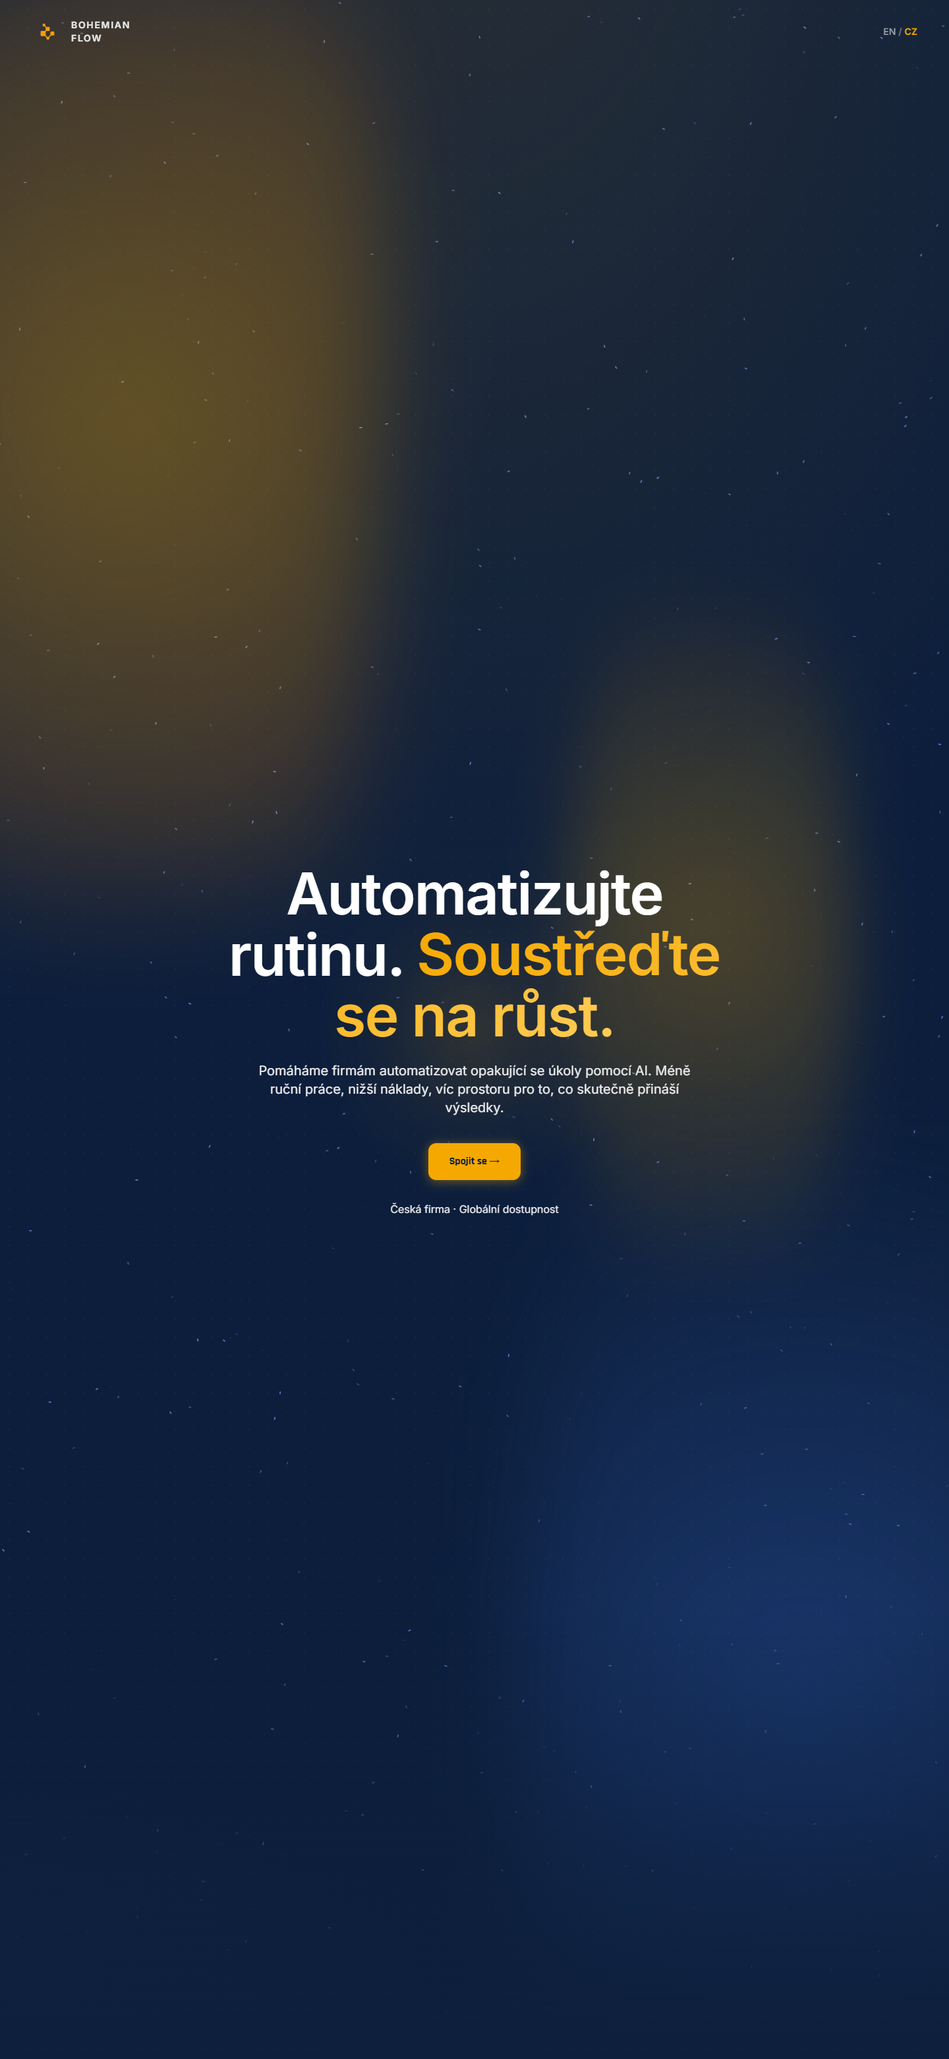
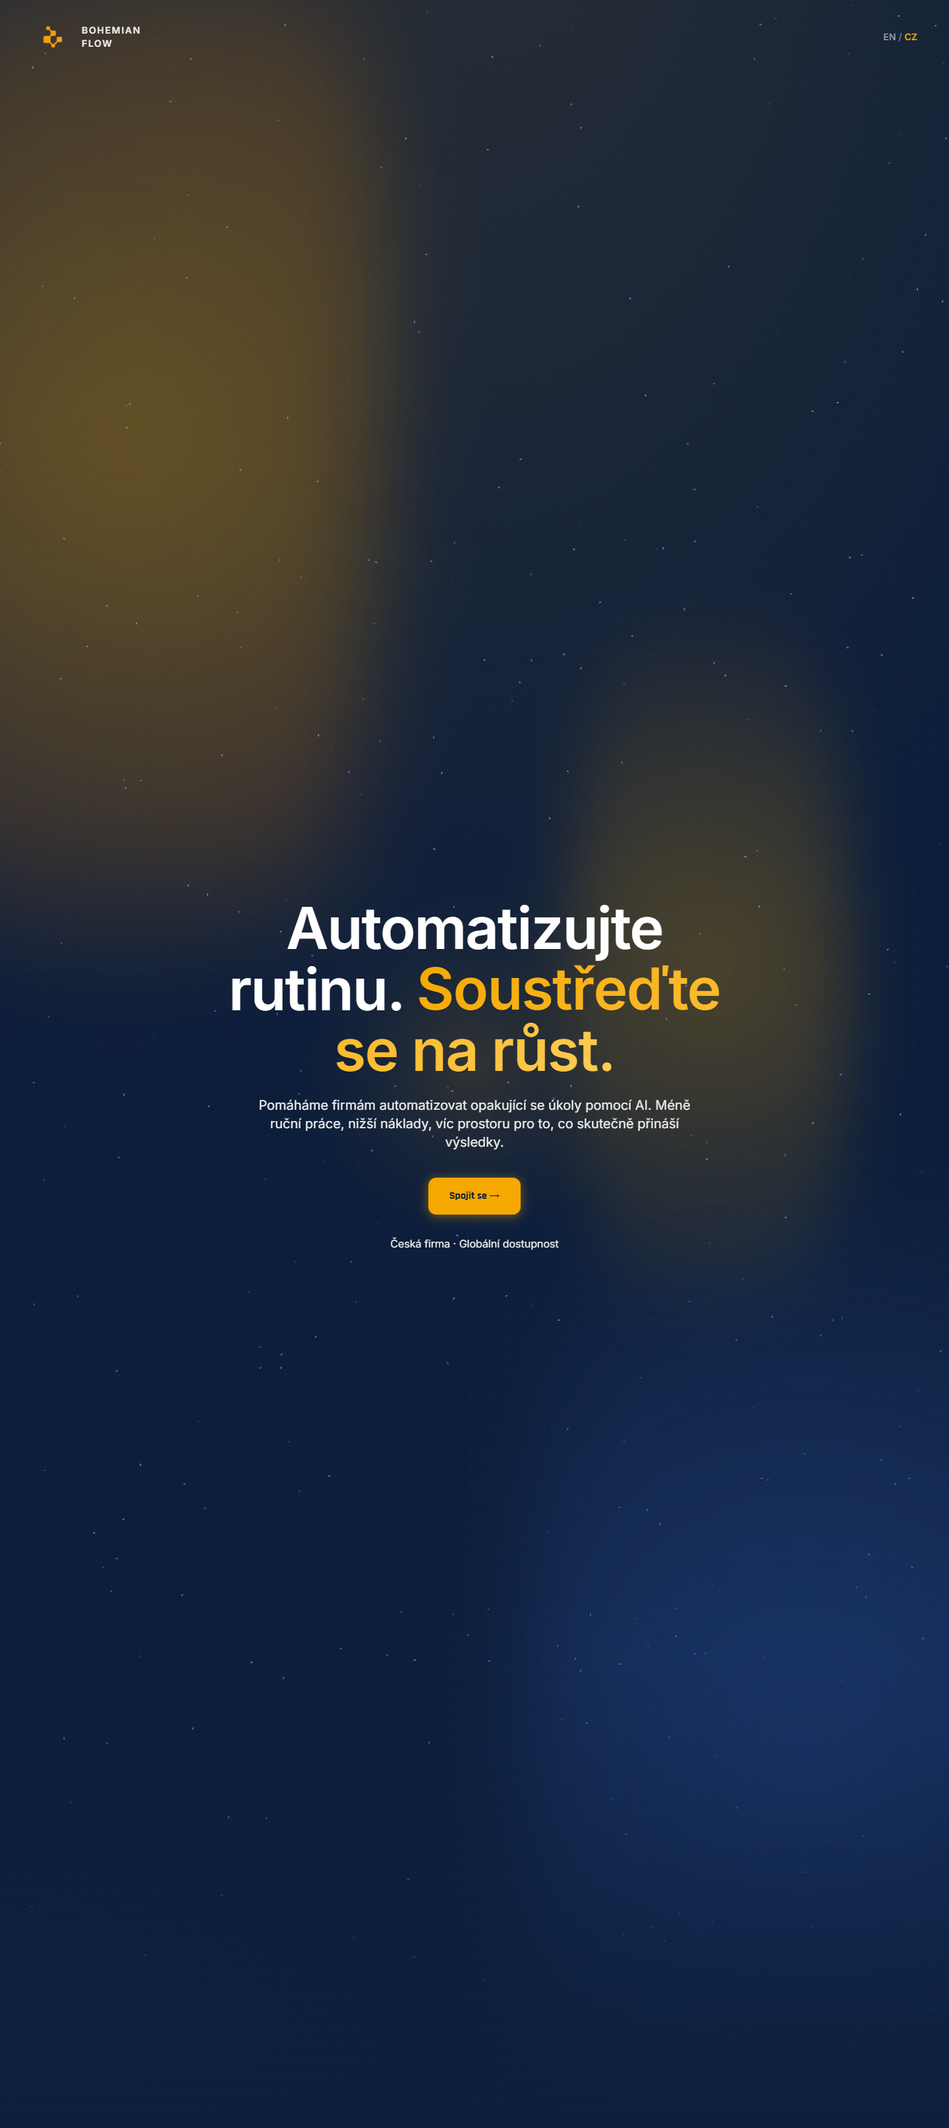
Update website content, translations, and screenshots

Changed region(s): [[0.3125, 0.4035, 0.75, 0.5898], [0.2812, 0.4966, 0.3438, 0.5277], [0.0625, 0.0, 0.125, 0.031]]

diff --git a/index.html b/index.html
@@ -282,6 +282,7 @@
       position: relative;
       border-left: 3px solid transparent;
       transition: all 0.3s cubic-bezier(0.22,1,0.36,1);
+      min-height: 300px;
     }
 
     .topic-card:hover {
@@ -599,7 +600,7 @@
   <!-- NAVIGATION -->
   <nav id="navbar" class="fixed top-0 left-0 right-0 z-50 w-full px-6 md:px-12 py-4 md:py-6 flex items-center justify-between transition-all duration-300">
     <a href="#" class="flex items-center gap-3 group">
-      <img src="./brand_assests/logo.png" alt="Bohemian Flow" class="h-10 md:h-12" />
+      <img src="./brand_assests/logo.png" alt="Bohemian Flow" class="h-14 md:h-16" />
       <span class="hidden md:block text-xs md:text-sm font-display font-bold uppercase tracking-[0.12em] text-ghost group-hover:text-orange transition-colors">Bohemian<br />Flow</span>
     </a>
 
@@ -743,60 +744,68 @@
 
       <!-- Topic Grid -->
       <div class="grid grid-cols-1 sm:grid-cols-2 lg:grid-cols-4 gap-6">
-        <!-- Topic 1 -->
+        <!-- Topic 1 — Email Agent -->
         <div class="topic-card bg-navy-light rounded-xl p-6 reveal reveal-delay-1">
-          <span class="inline-block bg-orange/12 text-orange text-xs font-semibold uppercase tracking-wider px-3 py-1 rounded-md mb-4" data-i18n="topics.t1.tag">Workflow</span>
-          <h3 class="font-display font-bold text-lg text-white mb-2" data-i18n="topics.t1.title">n8n & Make Workflows</h3>
-          <p class="text-ghost text-sm" data-i18n="topics.t1.desc">Deep-dive automation builds and advanced node configurations.</p>
+          <svg class="w-6 h-6 text-orange mb-3" fill="none" stroke="currentColor" stroke-width="1.75" viewBox="0 0 24 24" aria-hidden="true"><path stroke-linecap="round" stroke-linejoin="round" d="M21.75 6.75v10.5a2.25 2.25 0 0 1-2.25 2.25h-15a2.25 2.25 0 0 1-2.25-2.25V6.75m19.5 0A2.25 2.25 0 0 0 19.5 4.5h-15a2.25 2.25 0 0 0-2.25 2.25m19.5 0v.243a2.25 2.25 0 0 1-1.07 1.916l-7.5 4.615a2.25 2.25 0 0 1-2.36 0L3.32 8.91a2.25 2.25 0 0 1-1.07-1.916V6.75"/></svg>
+          <span class="inline-block bg-orange/12 text-orange text-xs font-semibold uppercase tracking-wider px-3 py-1 rounded-md mb-4" data-i18n="topics.t1.tag">Email</span>
+          <h3 class="font-display font-bold text-lg text-white mb-2" data-i18n="topics.t1.title">Email Agent</h3>
+          <p class="text-ghost text-sm" data-i18n="topics.t1.desc">Reads your inbox, sorts emails into folders, drafts replies in your tone, and flags only what needs your attention.</p>
         </div>
 
-        <!-- Topic 2 -->
+        <!-- Topic 2 — Smarter Chatbot (RAG) -->
         <div class="topic-card bg-navy-light rounded-xl p-6 reveal reveal-delay-2">
-          <span class="inline-block bg-orange/12 text-orange text-xs font-semibold uppercase tracking-wider px-3 py-1 rounded-md mb-4" data-i18n="topics.t2.tag">Agents</span>
-          <h3 class="font-display font-bold text-lg text-white mb-2" data-i18n="topics.t2.title">AI Agent Architecture</h3>
-          <p class="text-ghost text-sm" data-i18n="topics.t2.desc">Multi-step agent design patterns and orchestration.</p>
+          <svg class="w-6 h-6 text-orange mb-3" fill="none" stroke="currentColor" stroke-width="1.75" viewBox="0 0 24 24" aria-hidden="true"><path stroke-linecap="round" stroke-linejoin="round" d="M12 6.042A8.967 8.967 0 0 0 6 3.75c-1.052 0-2.062.18-3 .512v14.25A8.987 8.987 0 0 1 6 18c2.305 0 4.408.867 6 2.292m0-14.25a8.966 8.966 0 0 1 6-2.292c1.052 0 2.062.18 3 .512v14.25A8.987 8.987 0 0 0 18 18a8.967 8.967 0 0 0-6 2.292m0-14.25v14.25"/></svg>
+          <span class="inline-block bg-orange/12 text-orange text-xs font-semibold uppercase tracking-wider px-3 py-1 rounded-md mb-4" data-i18n="topics.t2.tag">RAG</span>
+          <h3 class="font-display font-bold text-lg text-white mb-2" data-i18n="topics.t2.title">Smarter Chatbot</h3>
+          <p class="text-ghost text-sm" data-i18n="topics.t2.desc">Unlike a regular chatbot, this one reads your actual documents, price lists, or knowledge base — and answers from that. Always up to date.</p>
         </div>
 
-        <!-- Topic 3 -->
+        <!-- Topic 3 — Lead Agent -->
         <div class="topic-card bg-navy-light rounded-xl p-6 reveal reveal-delay-3">
+          <svg class="w-6 h-6 text-orange mb-3" fill="none" stroke="currentColor" stroke-width="1.75" viewBox="0 0 24 24" aria-hidden="true"><path stroke-linecap="round" stroke-linejoin="round" d="M18 7.5v3m0 0v3m0-3h3m-3 0h-3m-2.25-4.125a3.375 3.375 0 1 1-6.75 0 3.375 3.375 0 0 1 6.75 0ZM3 19.235v-.11a6.375 6.375 0 0 1 12.75 0v.109A12.318 12.318 0 0 1 9.374 21c-2.331 0-4.512-.645-6.374-1.766Z"/></svg>
           <span class="inline-block bg-orange/12 text-orange text-xs font-semibold uppercase tracking-wider px-3 py-1 rounded-md mb-4" data-i18n="topics.t3.tag">LeadGen</span>
-          <h3 class="font-display font-bold text-lg text-white mb-2" data-i18n="topics.t3.title">Lead Generation Systems</h3>
-          <p class="text-ghost text-sm" data-i18n="topics.t3.desc">Outbound automation, enrichment, and conversion flows.</p>
+          <h3 class="font-display font-bold text-lg text-white mb-2" data-i18n="topics.t3.title">Lead Agent</h3>
+          <p class="text-ghost text-sm" data-i18n="topics.t3.desc">Finds companies that match your ideal customer, enriches the data, and sends a personalized first message. Warm leads without lifting a finger.</p>
         </div>
 
-        <!-- Topic 4 -->
+        <!-- Topic 4 — Content Agent -->
         <div class="topic-card bg-navy-light rounded-xl p-6 reveal reveal-delay-4">
-          <span class="inline-block bg-orange/12 text-orange text-xs font-semibold uppercase tracking-wider px-3 py-1 rounded-md mb-4" data-i18n="topics.t4.tag">CRM</span>
-          <h3 class="font-display font-bold text-lg text-white mb-2" data-i18n="topics.t4.title">CRM Automation</h3>
-          <p class="text-ghost text-sm" data-i18n="topics.t4.desc">Pipedrive, HubSpot, Close.io, and custom integrations.</p>
+          <svg class="w-6 h-6 text-orange mb-3" fill="none" stroke="currentColor" stroke-width="1.75" viewBox="0 0 24 24" aria-hidden="true"><path stroke-linecap="round" stroke-linejoin="round" d="m16.862 4.487 1.687-1.688a1.875 1.875 0 1 1 2.652 2.652L10.582 16.07a4.5 4.5 0 0 1-1.897 1.13L6 18l.8-2.685a4.5 4.5 0 0 1 1.13-1.897l8.932-8.931Zm0 0L19.5 7.125M18 14v4.75A2.25 2.25 0 0 1 15.75 21H5.25A2.25 2.25 0 0 1 3 18.75V8.25A2.25 2.25 0 0 1 5.25 6H10"/></svg>
+          <span class="inline-block bg-orange/12 text-orange text-xs font-semibold uppercase tracking-wider px-3 py-1 rounded-md mb-4" data-i18n="topics.t4.tag">Content</span>
+          <h3 class="font-display font-bold text-lg text-white mb-2" data-i18n="topics.t4.title">Content Agent</h3>
+          <p class="text-ghost text-sm" data-i18n="topics.t4.desc">Picks a topic, researches it, writes the post, and publishes it to your channels on a schedule. Your social presence keeps running while you focus on the business.</p>
         </div>
 
-        <!-- Topic 5 -->
-        <div class="topic-card bg-navy-light rounded-xl p-6 reveal reveal-delay-5">
-          <span class="inline-block bg-orange/12 text-orange text-xs font-semibold uppercase tracking-wider px-3 py-1 rounded-md mb-4" data-i18n="topics.t5.tag">Prompts</span>
-          <h3 class="font-display font-bold text-lg text-white mb-2" data-i18n="topics.t5.title">Prompt Engineering</h3>
-          <p class="text-ghost text-sm" data-i18n="topics.t5.desc">Production-grade prompt systems and advanced techniques.</p>
-        </div>
-
-        <!-- Topic 6 -->
+        <!-- Topic 5 — Web Scraper -->
         <div class="topic-card bg-navy-light rounded-xl p-6 reveal reveal-delay-1">
-          <span class="inline-block bg-orange/12 text-orange text-xs font-semibold uppercase tracking-wider px-3 py-1 rounded-md mb-4" data-i18n="topics.t6.tag">Data</span>
-          <h3 class="font-display font-bold text-lg text-white mb-2" data-i18n="topics.t6.title">Scraping & Data Pipelines</h3>
-          <p class="text-ghost text-sm" data-i18n="topics.t6.desc">Web data collection and large-scale processing.</p>
+          <svg class="w-6 h-6 text-orange mb-3" fill="none" stroke="currentColor" stroke-width="1.75" viewBox="0 0 24 24" aria-hidden="true"><path stroke-linecap="round" stroke-linejoin="round" d="M20.25 6.375c0 2.278-3.694 4.125-8.25 4.125S3.75 8.653 3.75 6.375m16.5 0c0-2.278-3.694-4.125-8.25-4.125S3.75 4.097 3.75 6.375m16.5 0v11.25c0 2.278-3.694 4.125-8.25 4.125s-8.25-1.847-8.25-4.125V6.375m16.5 5.625c0 2.278-3.694 4.125-8.25 4.125s-8.25-1.847-8.25-4.125"/></svg>
+          <span class="inline-block bg-orange/12 text-orange text-xs font-semibold uppercase tracking-wider px-3 py-1 rounded-md mb-4" data-i18n="topics.t5.tag">Data</span>
+          <h3 class="font-display font-bold text-lg text-white mb-2" data-i18n="topics.t5.title">Web Scraper</h3>
+          <p class="text-ghost text-sm" data-i18n="topics.t5.desc">Automatically collects prices, listings, or leads from websites every morning and drops clean rows into your spreadsheet or database.</p>
         </div>
 
-        <!-- Topic 7 -->
+        <!-- Topic 6 — Voice AI Agent -->
         <div class="topic-card bg-navy-light rounded-xl p-6 reveal reveal-delay-2">
-          <span class="inline-block bg-orange/12 text-orange text-xs font-semibold uppercase tracking-wider px-3 py-1 rounded-md mb-4" data-i18n="topics.t7.tag">Chat</span>
-          <h3 class="font-display font-bold text-lg text-white mb-2" data-i18n="topics.t7.title">Voice & Chat Interfaces</h3>
-          <p class="text-ghost text-sm" data-i18n="topics.t7.desc">WhatsApp, Telegram, Slack bots, and conversational AI.</p>
+          <svg class="w-6 h-6 text-orange mb-3" fill="none" stroke="currentColor" stroke-width="1.75" viewBox="0 0 24 24" aria-hidden="true"><path stroke-linecap="round" stroke-linejoin="round" d="M2.25 6.75c0 8.284 6.716 15 15 15h2.25a2.25 2.25 0 0 0 2.25-2.25v-1.372c0-.516-.351-.966-.852-1.091l-4.423-1.106c-.44-.11-.902.055-1.173.417l-.97 1.293c-.282.376-.769.542-1.21.38a12.035 12.035 0 0 1-7.143-7.143c-.162-.441.004-.928.38-1.21l1.293-.97c.363-.271.527-.734.417-1.173L6.963 3.102a1.125 1.125 0 0 0-1.091-.852H4.5A2.25 2.25 0 0 0 2.25 4.5v2.25Z"/></svg>
+          <span class="inline-block bg-orange/12 text-orange text-xs font-semibold uppercase tracking-wider px-3 py-1 rounded-md mb-4" data-i18n="topics.t6.tag">Voice AI</span>
+          <h3 class="font-display font-bold text-lg text-white mb-2" data-i18n="topics.t6.title">Voice AI Agent</h3>
+          <p class="text-ghost text-sm" data-i18n="topics.t6.desc">An AI agent that calls your leads, handles inbound inquiries, and books meetings — in natural voice conversation. Available in any language, 24/7, at scale.</p>
         </div>
 
-        <!-- Topic 8 -->
+        <!-- Topic 7 — CRM Automation -->
         <div class="topic-card bg-navy-light rounded-xl p-6 reveal reveal-delay-3">
-          <span class="inline-block bg-orange/12 text-orange text-xs font-semibold uppercase tracking-wider px-3 py-1 rounded-md mb-4" data-i18n="topics.t8.tag">Process</span>
-          <h3 class="font-display font-bold text-lg text-white mb-2" data-i18n="topics.t8.title">Business Process Design</h3>
-          <p class="text-ghost text-sm" data-i18n="topics.t8.desc">SOP to automation conversion and optimization.</p>
+          <svg class="w-6 h-6 text-orange mb-3" fill="none" stroke="currentColor" stroke-width="1.75" viewBox="0 0 24 24" aria-hidden="true"><path stroke-linecap="round" stroke-linejoin="round" d="M15 9h3.75M15 12h3.75M15 15h3.75M4.5 19.5h15a2.25 2.25 0 0 0 2.25-2.25V6.75A2.25 2.25 0 0 0 19.5 4.5h-15a2.25 2.25 0 0 0-2.25 2.25v10.5A2.25 2.25 0 0 0 4.5 19.5Zm6-10.125a1.875 1.875 0 1 1-3.75 0 1.875 1.875 0 0 1 3.75 0Zm1.294 6.336a6.721 6.721 0 0 1-3.17.789 6.721 6.721 0 0 1-3.168-.789 3.376 3.376 0 0 1 6.338 0Z"/></svg>
+          <span class="inline-block bg-orange/12 text-orange text-xs font-semibold uppercase tracking-wider px-3 py-1 rounded-md mb-4" data-i18n="topics.t7.tag">CRM</span>
+          <h3 class="font-display font-bold text-lg text-white mb-2" data-i18n="topics.t7.title">CRM Automation</h3>
+          <p class="text-ghost text-sm" data-i18n="topics.t7.desc">Contacts, deals, and tasks update themselves. When a lead fills a form, the CRM record is created, tagged, and assigned — before anyone even checks their inbox.</p>
+        </div>
+
+        <!-- Topic 8 — Automated Reporting -->
+        <div class="topic-card bg-navy-light rounded-xl p-6 reveal reveal-delay-4">
+          <svg class="w-6 h-6 text-orange mb-3" fill="none" stroke="currentColor" stroke-width="1.75" viewBox="0 0 24 24" aria-hidden="true"><path stroke-linecap="round" stroke-linejoin="round" d="M3 13.125C3 12.504 3.504 12 4.125 12h2.25c.621 0 1.125.504 1.125 1.125v6.75C7.5 20.496 6.996 21 6.375 21h-2.25A1.125 1.125 0 0 1 3 19.875v-6.75ZM9.75 8.625c0-.621.504-1.125 1.125-1.125h2.25c.621 0 1.125.504 1.125 1.125v11.25c0 .621-.504 1.125-1.125 1.125h-2.25a1.125 1.125 0 0 1-1.125-1.125V8.625ZM16.5 4.125c0-.621.504-1.125 1.125-1.125h2.25C20.496 3 21 3.504 21 4.125v15.75c0 .621-.504 1.125-1.125 1.125h-2.25a1.125 1.125 0 0 1-1.125-1.125V4.125Z"/></svg>
+          <span class="inline-block bg-orange/12 text-orange text-xs font-semibold uppercase tracking-wider px-3 py-1 rounded-md mb-4" data-i18n="topics.t8.tag">Reporting</span>
+          <h3 class="font-display font-bold text-lg text-white mb-2" data-i18n="topics.t8.title">Automated Reporting</h3>
+          <p class="text-ghost text-sm" data-i18n="topics.t8.desc">Every week or month, a report on your key metrics lands in your inbox automatically. No manual exports, no spreadsheet juggling.</p>
         </div>
       </div>
     </div>

diff --git a/translations/cs.js b/translations/cs.js
@@ -31,14 +31,14 @@ window.translations.cs = {
   topics: {
     label:   'Co stavíme',
     heading: 'Naše automatizační specializace',
-    t1: { tag: 'Workflow', title: 'n8n Workflows',                  desc: 'Tvoříme automatizace v n8n, nástroji pro propojení aplikací a procesů bez ruční práce. Postaráme se o celé nastavení od prvního kroku až po spuštění v ostrém provozu.' },
-    t2: { tag: 'Procesy',  title: 'Design firemních procesů',     desc: 'Zmapujeme, jak váš tým pracuje, a nahradíme opakující se ruční kroky automatizací. Výsledkem je rychlejší provoz, méně chyb a víc času na důležitou práci.' },
-    t3: { tag: 'LeadGen',  title: 'Systémy pro generování leadů', desc: 'Automatizujeme celý proces hledání a oslovování potenciálních zákazníků. Od prvního kontaktu po domluvení schůzky vše proběhne bez ruční práce.' },
-    t4: { tag: 'Email',    title: 'Automatizace e-mailů',         desc: 'AI za vás třídí, píše a odpovídá na e-maily podle vašich pravidel. Váš inbox vám slouží místo toho, aby vás ovládal.' },
-    t5: { tag: 'Obsah',    title: 'Generování AI obsahu',         desc: 'Systém, který sám vyhledá podklady, napíše a zveřejní obsah na vašich kanálech. Váš obsah vychází pravidelně, aniž byste na něm museli trávit čas.' },
-    t6: { tag: 'Data',     title: 'Scraping & datové pipeline',   desc: 'Automaticky sbíráme data z webu a ukládáme je přehledně na jedno místo. Vždy aktuální, čistá data připravená k dalšímu využití.' },
-    t7: { tag: 'Chat',     title: 'Hlasová & chatová rozhraní',   desc: 'Stavíme chatboty pro WhatsApp, Telegram, Slack i vlastní AI asistenty. Vaše firma zůstává dostupná na každém kanálu, nepřetržitě.' },
-    t8: { tag: 'Agenti',   title: 'Architektura AI agentů',       desc: 'Stavíme AI agenty, kteří myslí a jednají samostatně, bez toho, aby je kdokoli řídil. Zvládnou složité úkoly sami nebo ve spolupráci s dalšími agenty.' }
+    t1: { tag: 'Email',   title: 'E-mailový agent',     desc: 'Přečte váš inbox, roztřídí e-maily do složek, napíše odpověď vaším stylem a upozorní vás jen na to, co vyžaduje vás. Inbox funguje sám.' },
+    t2: { tag: 'RAG',     title: 'Znalostní asistent',   desc: 'Čte vaše dokumenty, ceníky nebo znalostní bázi a odpovídá z nich — ne z domněnek. Vždy aktuální, bez vymýšlení. Napojíme ho na WhatsApp, Telegram nebo přímo na váš web.' },
+    t3: { tag: 'LeadGen', title: 'Agent pro leady',     desc: 'Najde firmy, které odpovídají vašemu ideálnímu zákazníkovi, obohatí data a pošle personalizovanou první zprávu. Dostanete seznam leadů — bez jediného kliknutí.' },
+    t4: { tag: 'Obsah',   title: 'Agent pro obsah',     desc: 'Vybere téma, nastuduje ho, napíše příspěvek a zveřejní ho na vašich kanálech — podle plánu. Vaše online přítomnost běží dál, zatímco vy řídíte firmu.' },
+    t5: { tag: 'Data',    title: 'Web scraper',         desc: 'Každé ráno automaticky stáhne ceny, inzeráty nebo kontakty z webů a uloží je čistě do tabulky nebo databáze. Vždy aktuální, bez ručního procházení.' },
+    t6: { tag: 'Voice AI', title: 'Hlasový AI agent',   desc: 'AI agent, který volá vašim leadům, přijímá příchozí dotazy a domlouvá schůzky — přirozeným hlasem. Dostupný v jakémkoliv jazyce, nonstop.' },
+    t7: { tag: 'CRM',     title: 'CRM automatizace',    desc: 'Kontakty, obchody a úkoly se aktualizují samy. Když lead vyplní formulář, záznam v CRM se vytvoří, označí a přiřadí — dřív než někdo zkontroluje inbox.' },
+    t8: { tag: 'Reporting', title: 'Automatický reporting', desc: 'Každý týden nebo měsíc dostanete přehled klíčových čísel — tržby, leady, výkon kampaní — rovnou do inboxu. Žádné ruční stahování, žádné přepínání tabulek.' }
   },
   about: {
     label:        'O',

diff --git a/translations/en.js b/translations/en.js
@@ -31,14 +31,14 @@ window.translations.en = {
   topics: {
     label:   'What We Build',
     heading: 'Our Automation Specializations',
-    t1: { tag: 'Workflow', title: 'n8n Workflows',                desc: 'We build automations in n8n, a tool that connects your apps and processes so nothing needs to be done by hand. We handle the full setup from the first step to going live.' },
-    t2: { tag: 'Process',  title: 'Business Process Design',    desc: 'We map how your team works and replace repetitive manual steps with automation. The result is faster operations, fewer mistakes, and more time for what matters.' },
-    t3: { tag: 'LeadGen',  title: 'Lead Generation Systems',    desc: 'We automate the entire process of finding and reaching out to potential customers. From first contact to a booked meeting, everything runs without manual effort.' },
-    t4: { tag: 'Email',    title: 'Email Management Automation', desc: 'AI sorts, writes, and responds to emails based on your rules, automatically. Your inbox works for you instead of the other way around.' },
-    t5: { tag: 'Content',  title: 'AI Content Generation',      desc: 'A system that researches, writes, and publishes content across your channels on its own. Your content goes live regularly, so you never have to spend time writing.' },
-    t6: { tag: 'Data',     title: 'Scraping & Data Pipelines',  desc: 'We automatically collect data from the web and store it cleanly in one place. Always up-to-date, structured data ready to use.' },
-    t7: { tag: 'Chat',     title: 'Voice & Chat Interfaces',    desc: 'We build chatbots for WhatsApp, Telegram, Slack, and custom AI assistants. Your business stays reachable on every channel, around the clock.' },
-    t8: { tag: 'Agents',   title: 'AI Agent Architecture',      desc: 'We build AI agents that think and act on their own, without anyone managing them. They handle complex tasks independently or work together with other agents.' }
+    t1: { tag: 'Email',   title: 'Email Agent',       desc: 'Reads your inbox, sorts emails into folders, drafts replies in your tone, and flags only what needs your attention. Your inbox works — you just check in.' },
+    t2: { tag: 'RAG',     title: 'Knowledge Assistant',   desc: 'Reads your documents, price lists, or knowledge base — and answers from those, not from guesswork. Always current, no hallucinations. Deploy on WhatsApp, Telegram, or as a chat widget on your site.' },
+    t3: { tag: 'LeadGen', title: 'Lead Agent',        desc: 'Finds companies that match your ideal customer, enriches the data, and sends a personalized first message. You get a list of warm leads — without lifting a finger.' },
+    t4: { tag: 'Content', title: 'Content Agent',     desc: 'Picks a topic, researches it, writes the post, and publishes it to your channels — on a schedule. Your social presence keeps running while you focus on the business.' },
+    t5: { tag: 'Data',    title: 'Web Scraper',       desc: 'Automatically collects prices, listings, or leads from websites every morning and drops clean rows into your spreadsheet or database. Always fresh, no manual checking.' },
+    t6: { tag: 'Voice AI', title: 'Voice AI Agent',    desc: 'An AI agent that calls your leads, handles inbound inquiries, and books meetings — in natural voice conversation. Available in any language, 24/7, at scale.' },
+    t7: { tag: 'CRM',     title: 'CRM Automation',    desc: 'Contacts, deals, and tasks update themselves. When a lead fills a form, the CRM record is created, tagged, and assigned — before anyone even checks their inbox.' },
+    t8: { tag: 'Reporting', title: 'Automated Reporting', desc: 'Every week or month, a report on your key metrics — revenue, leads, campaign performance — lands in your inbox automatically. No manual exports, no spreadsheet juggling.' }
   },
   about: {
     label:      'About',
